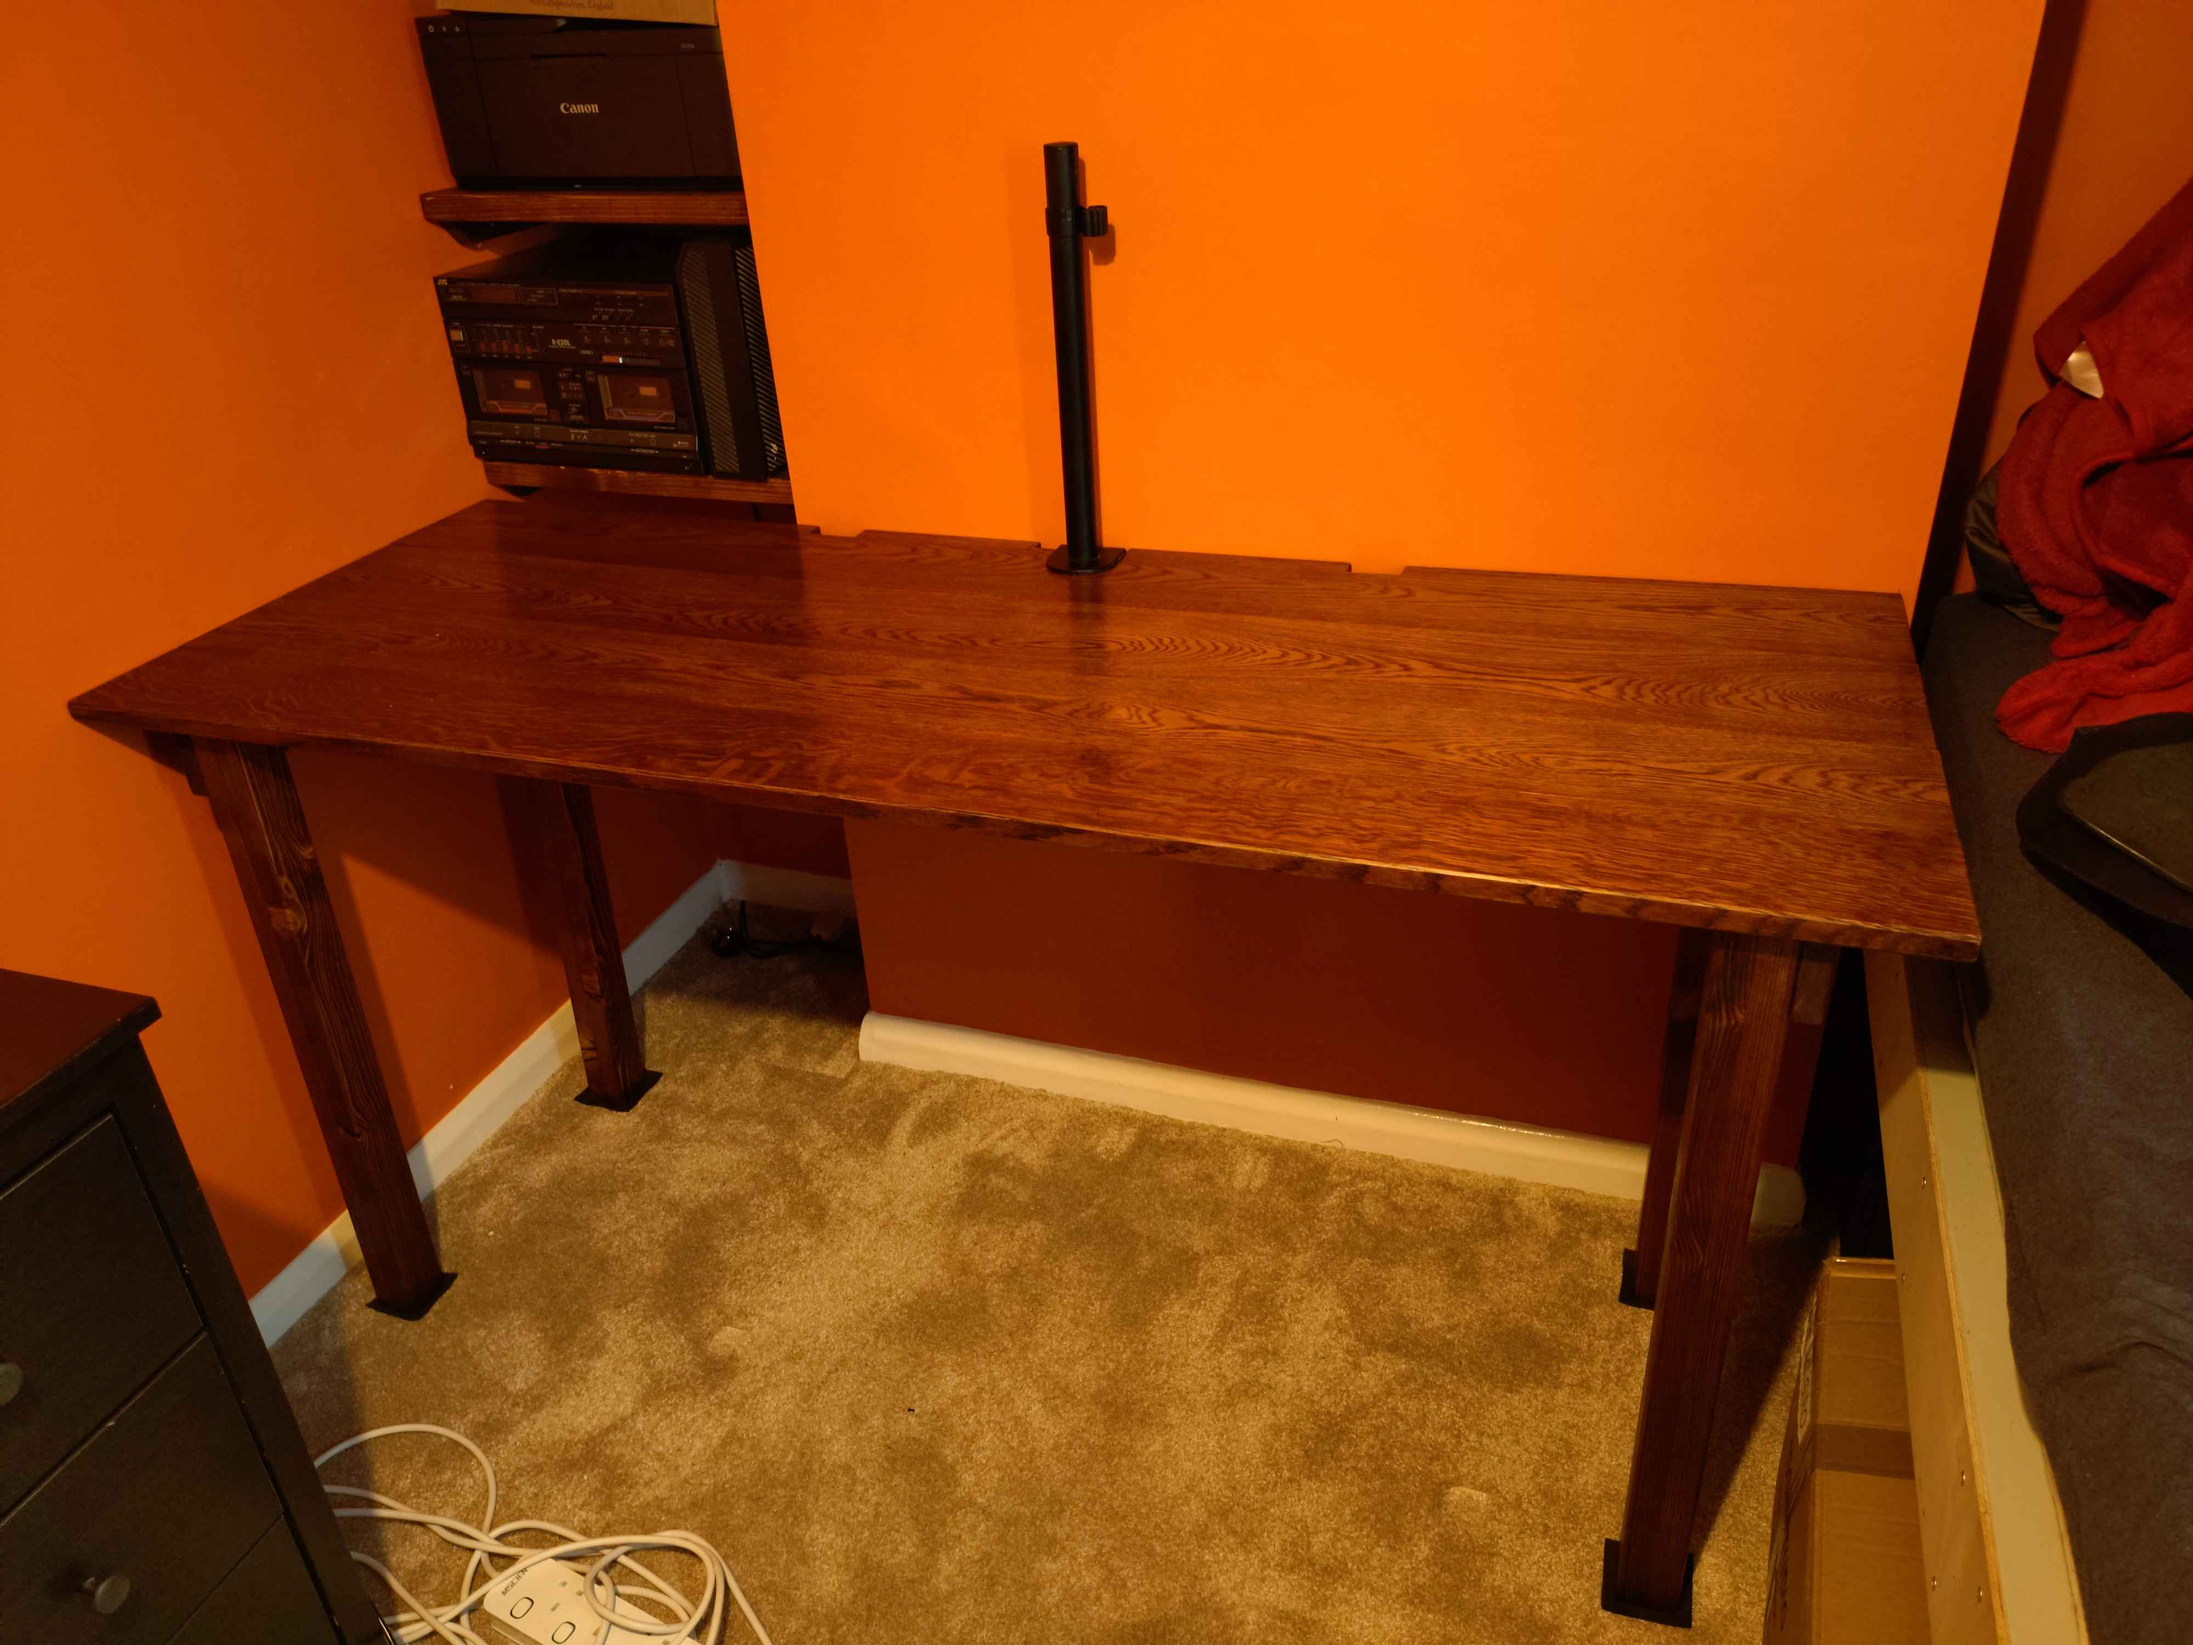
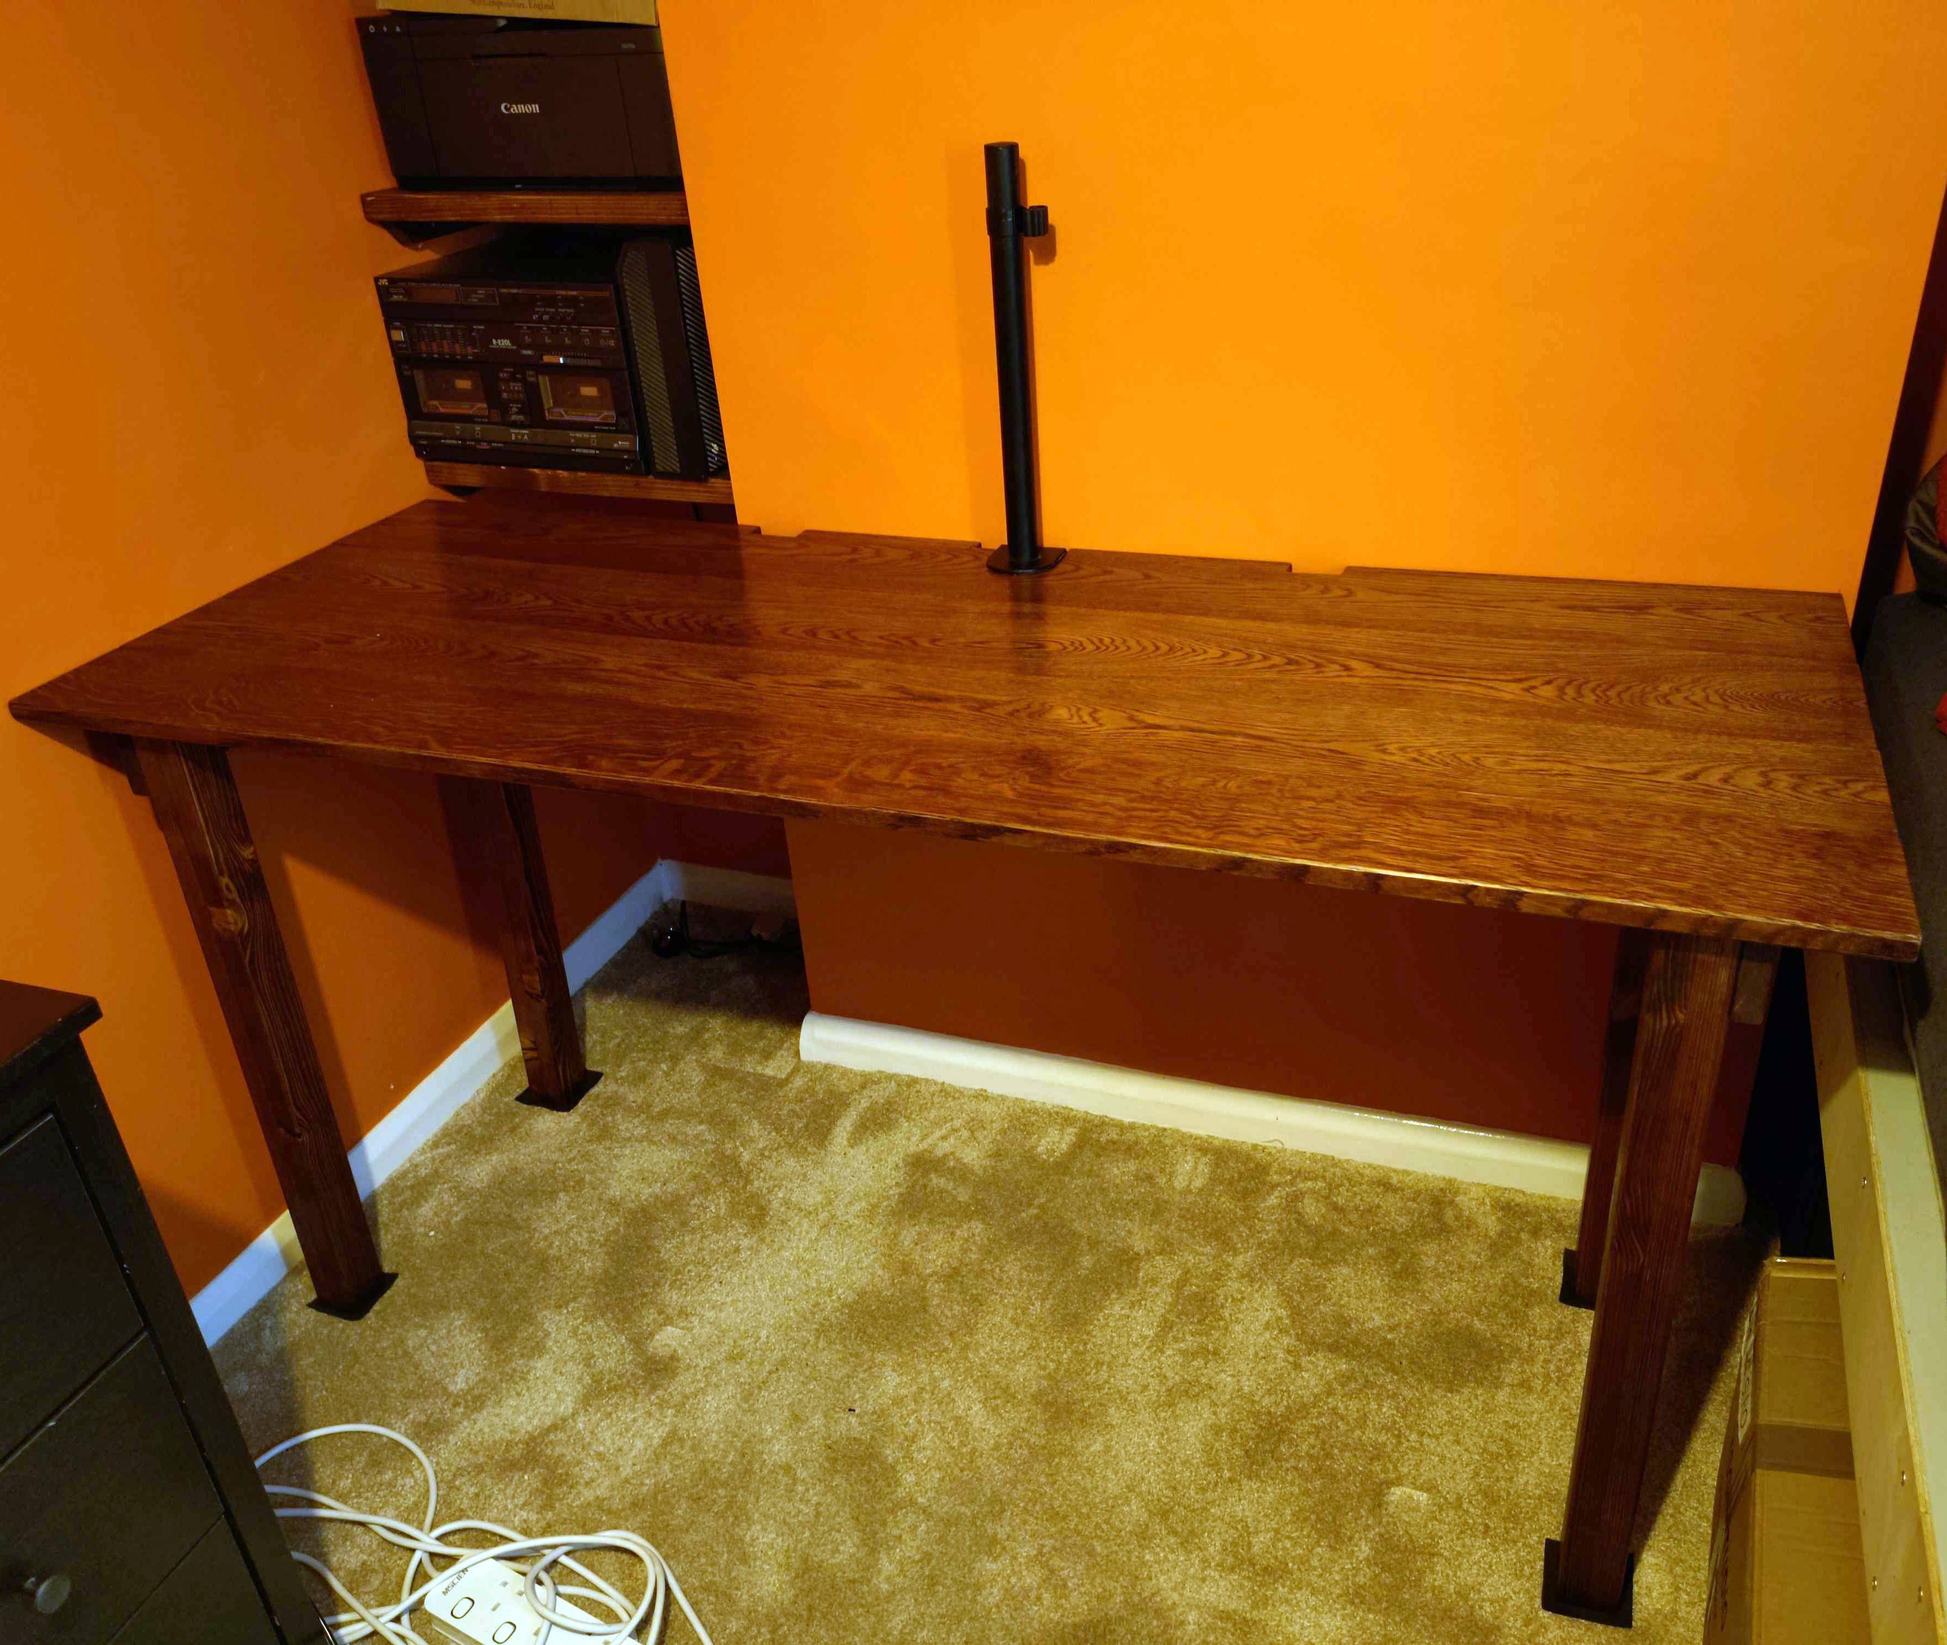
creating project pages

diff --git a/projects.html b/projects.html
@@ -60,16 +60,40 @@
                             </div>
                         </a>
 
+                        <a href="projects/leatherjacket.html">
+                            <div class="entry">
+                                <div class="display-rows">
+                                    <h2>Leather Jacket</h2>
+                                </div>
+                                <div class="display-rows entry-content">
+                                    <img src="images/jacket4.JPG" alt="Jacket">
+                                    <p>lorem ipsum</p>
+                                </div>
+                            </div>
+                        </a>
+
                     </div>
                     <div class="even-columns">
 
-                        <a href="projects/desk.html">
+                        <a href="projects/shelves.html">
                             <div class="entry">
                                 <div class="display-rows">
-                                    <h2>Hat</h2>
+                                    <h2>Shelves</h2>
                                 </div>
                                 <div class="display-rows entry-content">
-                                    <img src="images/desk1.jpg" alt="Desk">
+                                    <img src="images/shelves4.jpg" alt="Shelves">
+                                    <p>lorem ipsum</p>
+                                </div>
+                            </div>
+                        </a>
+
+                        <a href="projects/pots.html">
+                            <div class="entry">
+                                <div class="display-rows">
+                                    <h2>Plant Pots</h2>
+                                </div>
+                                <div class="display-rows entry-content">
+                                    <img src="images/pots2.jpg" alt="Plant Pots">
                                     <p>lorem ipsum</p>
                                 </div>
                             </div>

diff --git a/programming.html b/programming.html
@@ -46,13 +46,25 @@
 
 
     <div id="column-right">
-        <a href="projects/desk.html">
-            <div class="entry" id="project-desk">
+        <a href="programming/dissertation.html">
+            <div class="entry">
                 <div class="display-rows">
-                    <h2>Custom Oak Computer Desk</h2>
+                    <h2>Peak District Route Planner</h2>
                 </div>
                 <div class="display-rows entry-content">
-                    <img src="images/desk1.jpg" alt="Desk">
+                    <img src="images/dissertation1.png" alt="Map Snippet">
+                    <p>lorem ipsum</p>
+                </div>
+            </div>
+        </a>
+
+        <a href="programming/dissertation.html">
+            <div class="entry">
+                <div class="display-rows">
+                    <h2>This Website</h2>
+                </div>
+                <div class="display-rows entry-content">
+                    <img src="images/dissertation1.png" alt="Map Snippet">
                     <p>lorem ipsum</p>
                 </div>
             </div>

diff --git a/static/styles.css b/static/styles.css
@@ -18,6 +18,9 @@ a{
     text-decoration: none;
     color: var(--text1);
 }
+#navbar{
+    height: 100%;
+}
 #two-columns .two-columns{
     display: flex;
     flex-direction: row;
@@ -46,6 +49,7 @@ a{
 #title img{
     width:30vh;
     margin-top: 3rem;
+    border: 5px solid var(--dark2);
 }
 #home-button div{
     transition: background-color 0.5s, color 0.5s;
@@ -72,7 +76,7 @@ a{
     margin: 1rem;
     background-color: var(--dark3);
     color: var(--text1);
-    transition: background-color 1s, width 1s, color 1s;
+    transition: background-color 0.2s, width 0.2s, color 0.2s;
     transition-timing-function: ease;
     width:60%;
 }
@@ -113,7 +117,8 @@ a{
     display: flex;
 }
 .entry div img{
-    height:25vh;
+    max-height:30vh;
+    width: 15vw;
 }
 .entry div p{
     margin:2rem;

diff --git a/projects/pots.html b/projects/pots.html
@@ -1,0 +1,10 @@
+<!DOCTYPE html>
+<html lang="en">
+<head>
+    <meta charset="UTF-8">
+    <title>Title</title>
+</head>
+<body>
+
+</body>
+</html>
